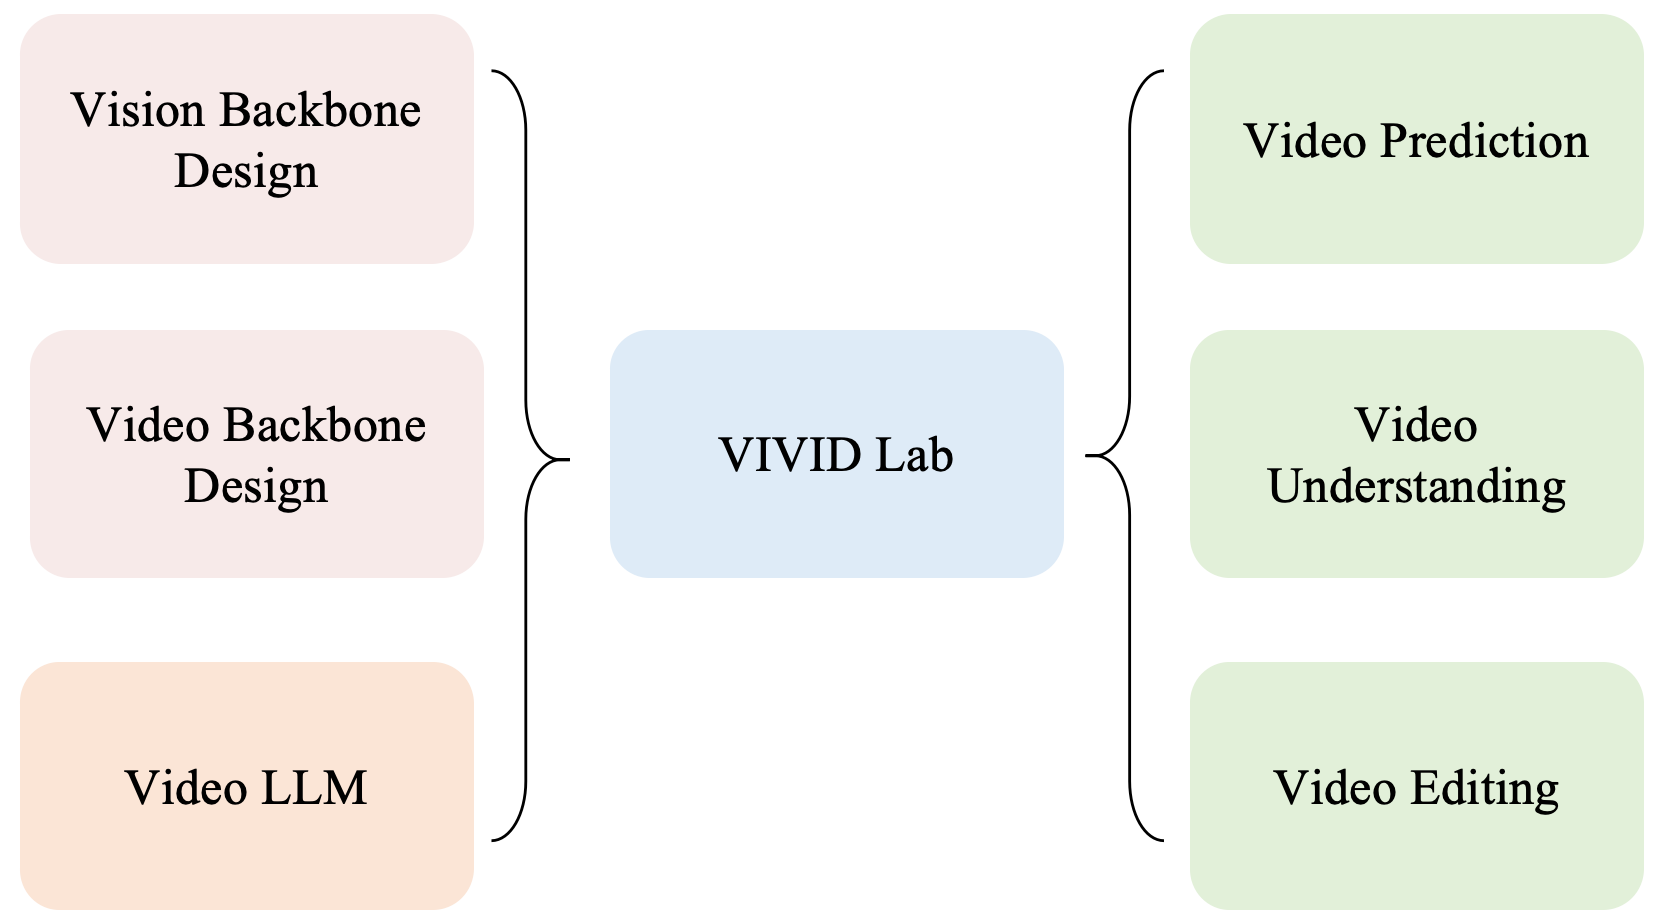
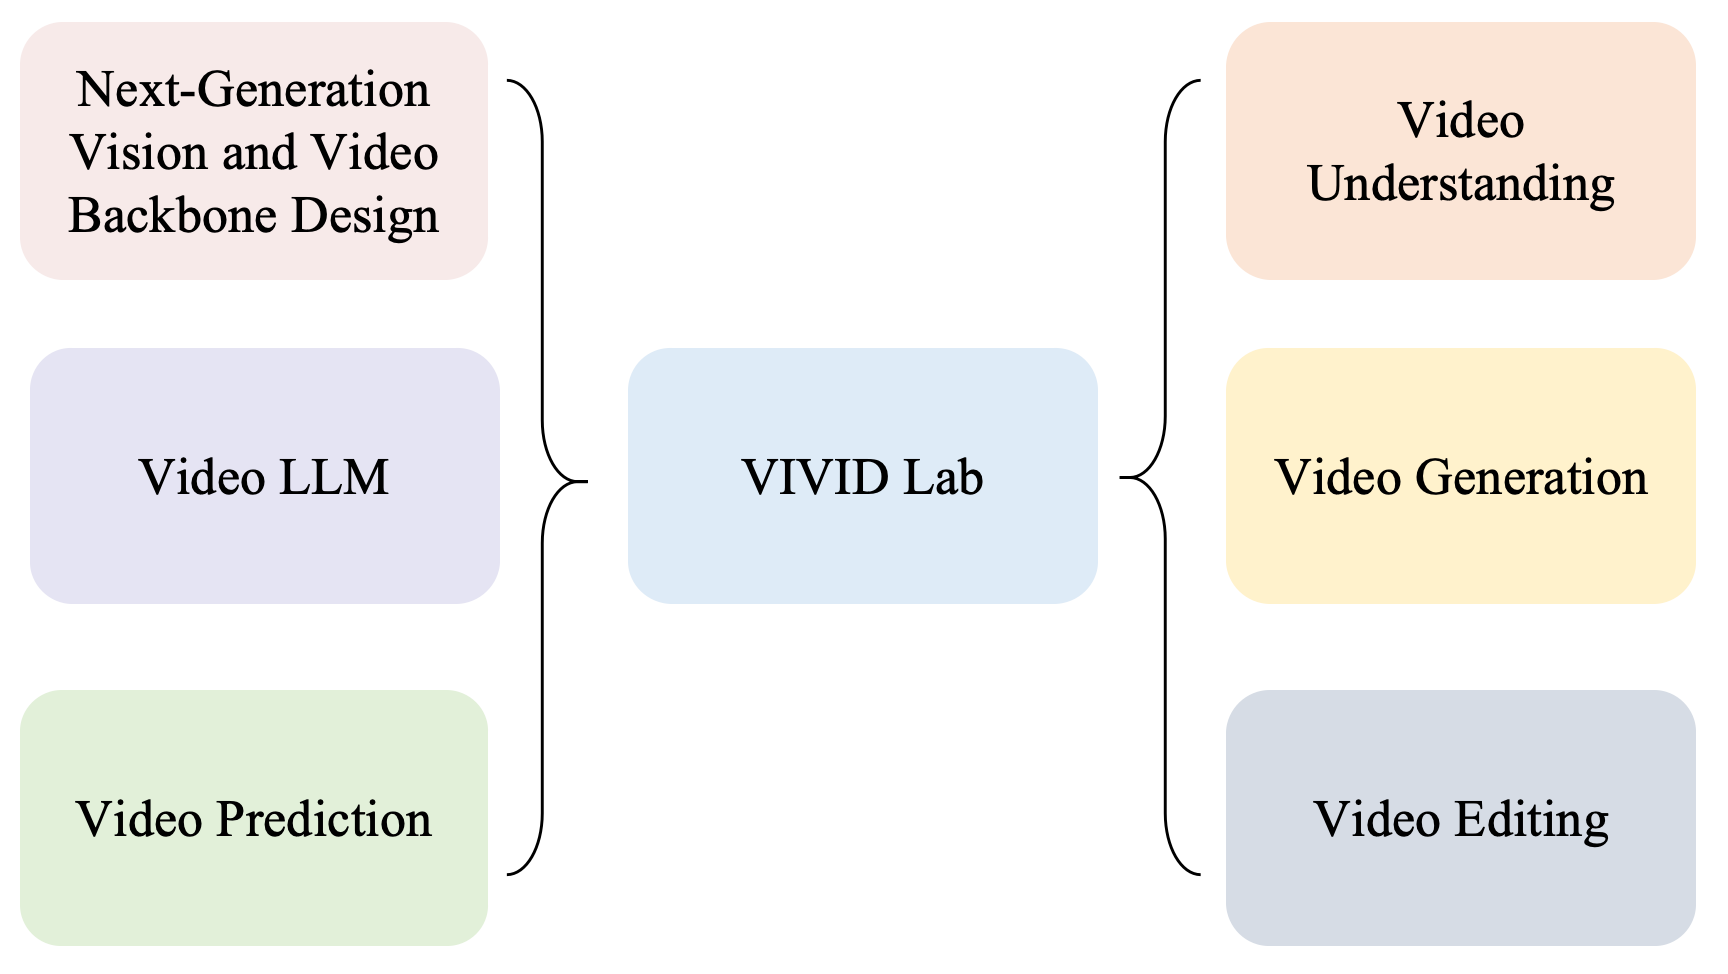
update on 06.25

diff --git a/_pages/about.md b/_pages/about.md
@@ -22,9 +22,9 @@ My previous research experience included Time Series Forecasting(1D), Medical Im
 
 My Long-Term Research Interests lie in:
 
-* Video Prediction
-* Next Generation Vision Backbone Design (SSM, Mamba, Linear Attention, etc.)
-* Video Large Language Models (VLLM)
+* Next Generation Vision and Video Backbone Design (SSM, Mamba, Linear Attention, Token Design)
+* Video Centered Reseach(Understanding, Generation, Editing, Prediction, Quality Assesment, Human Pose)
+* Video Large Language Models (VideoLLM)
 
 <div class='paper-box'><div class='paper-box-image'><div><div class="badge"></div><img src='images/VIVID.png' alt="sym" width="100%"></div></div>
 <div class='paper-box-text' markdown="1">
@@ -117,7 +117,6 @@ Yuan Cheng, **Yujin Tang**, Dahong Qian
 
 </div>
 </div>
-
 
 
 # 📕 Notes
